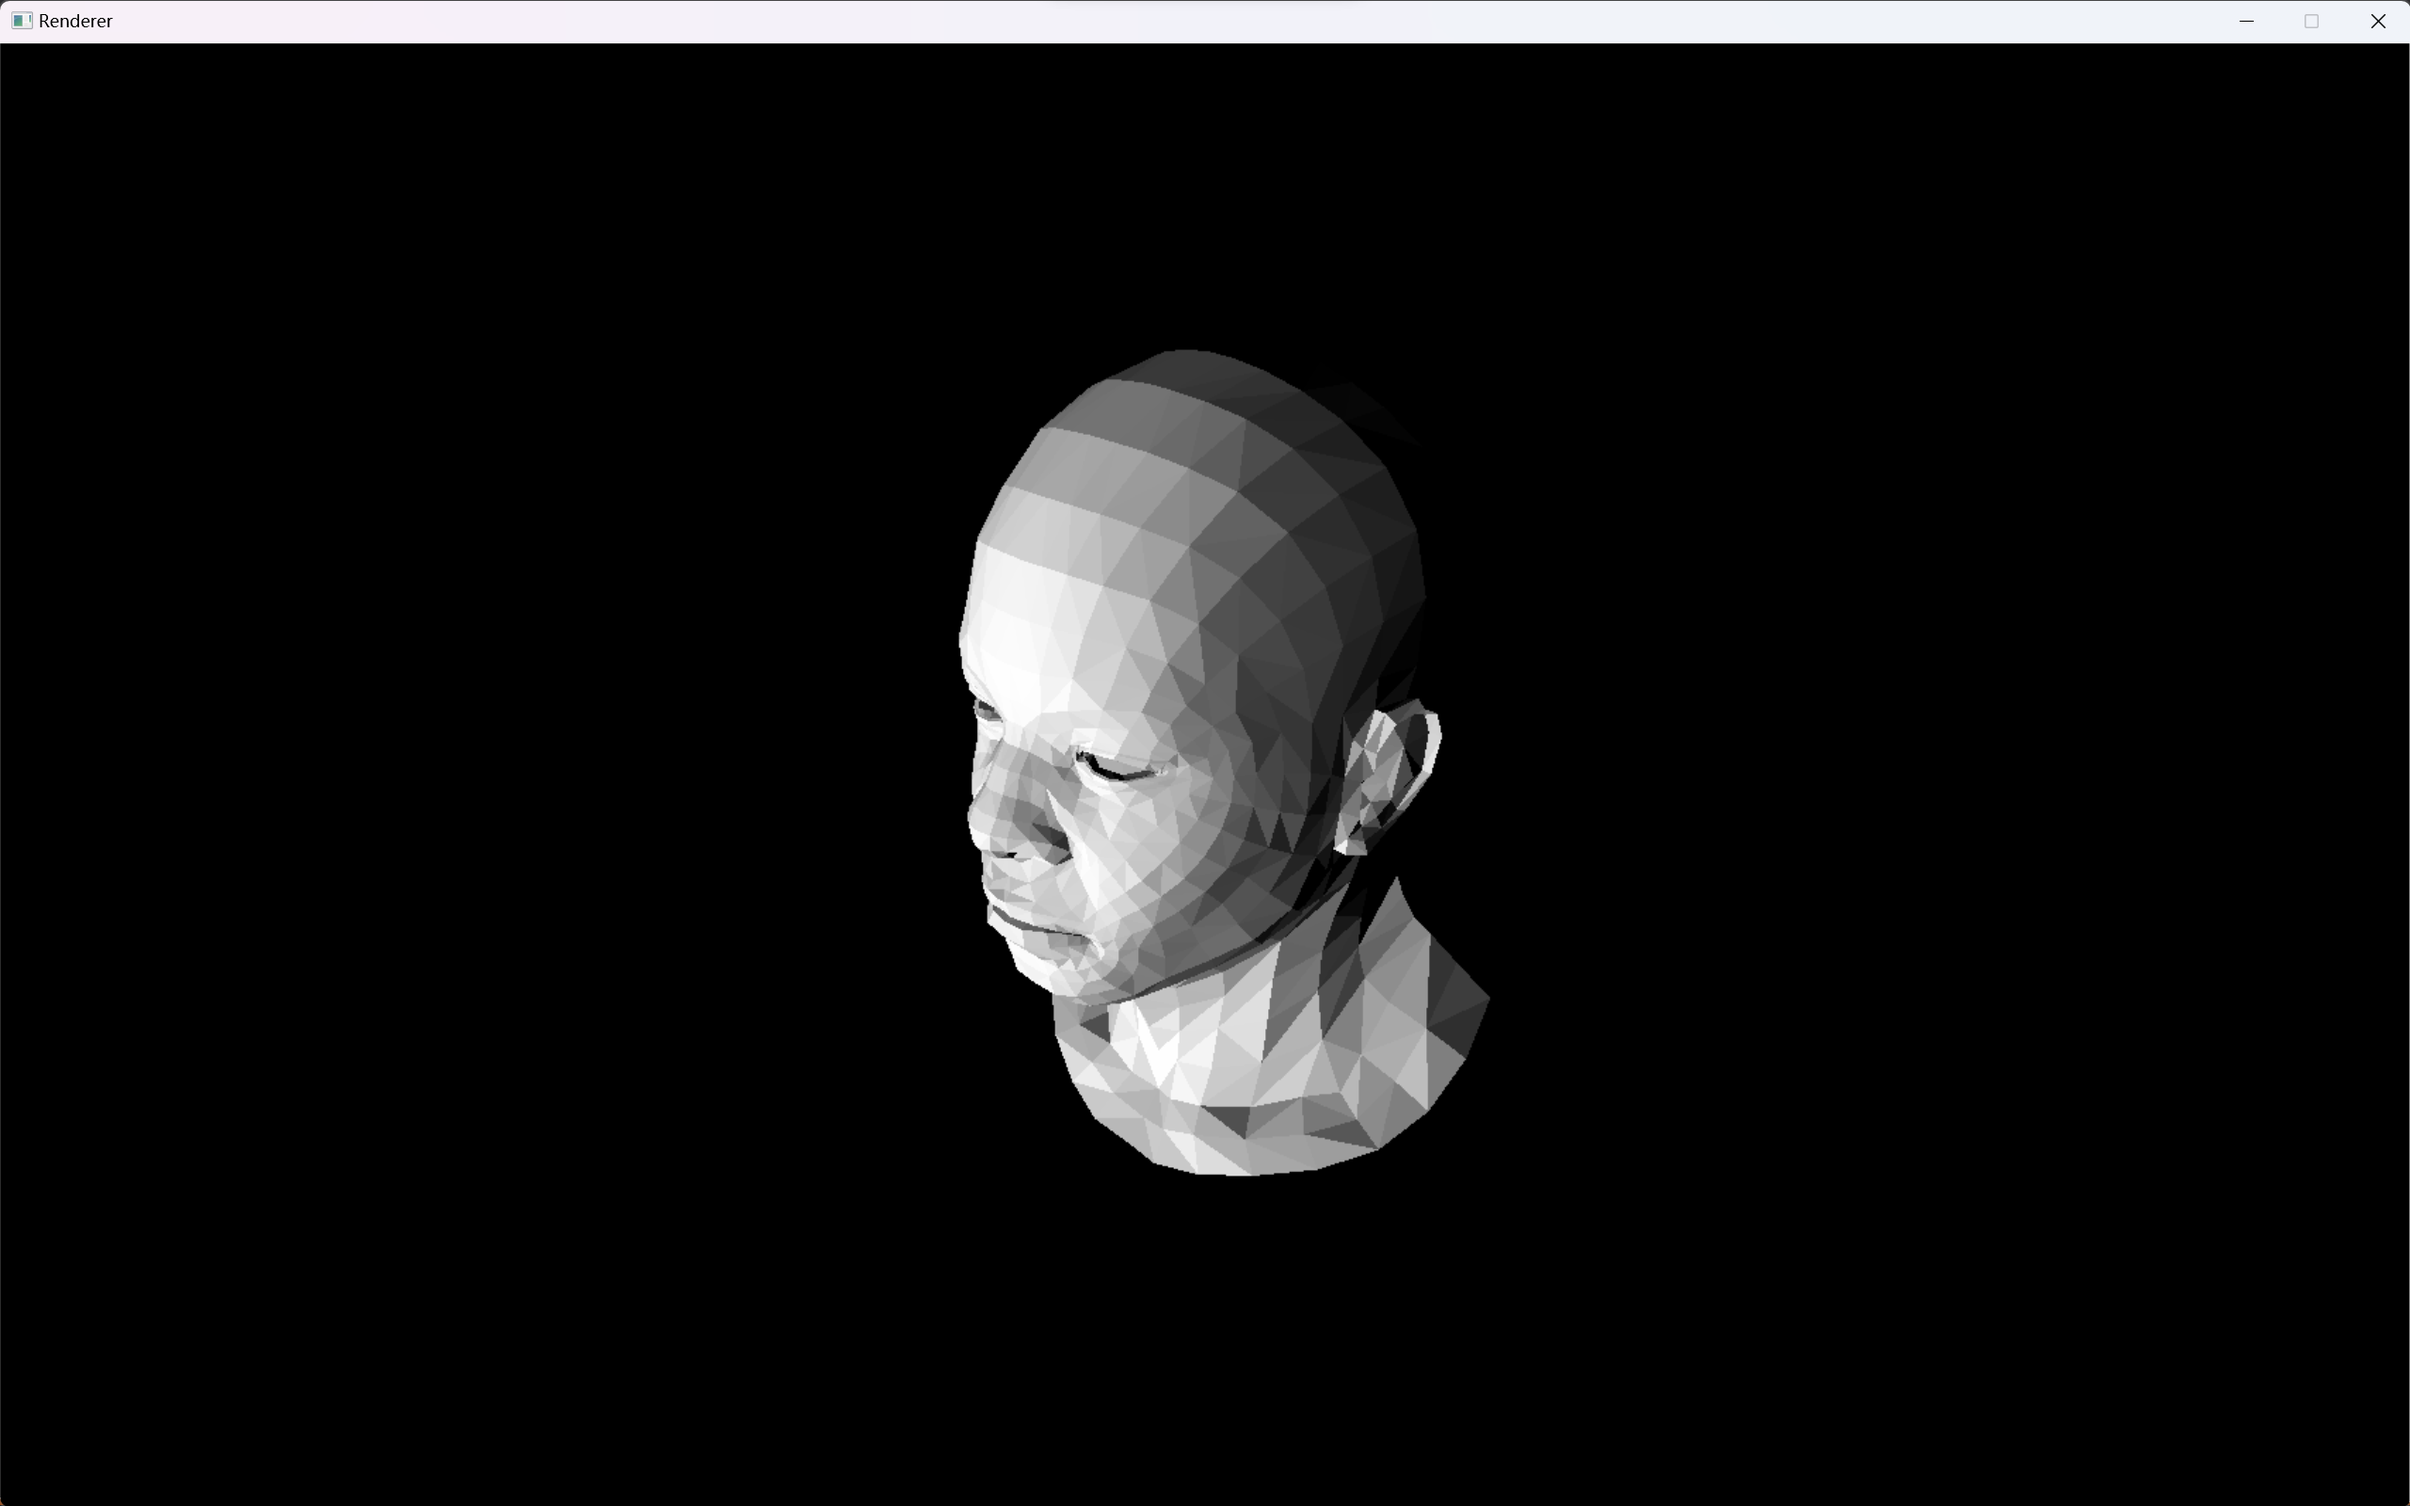
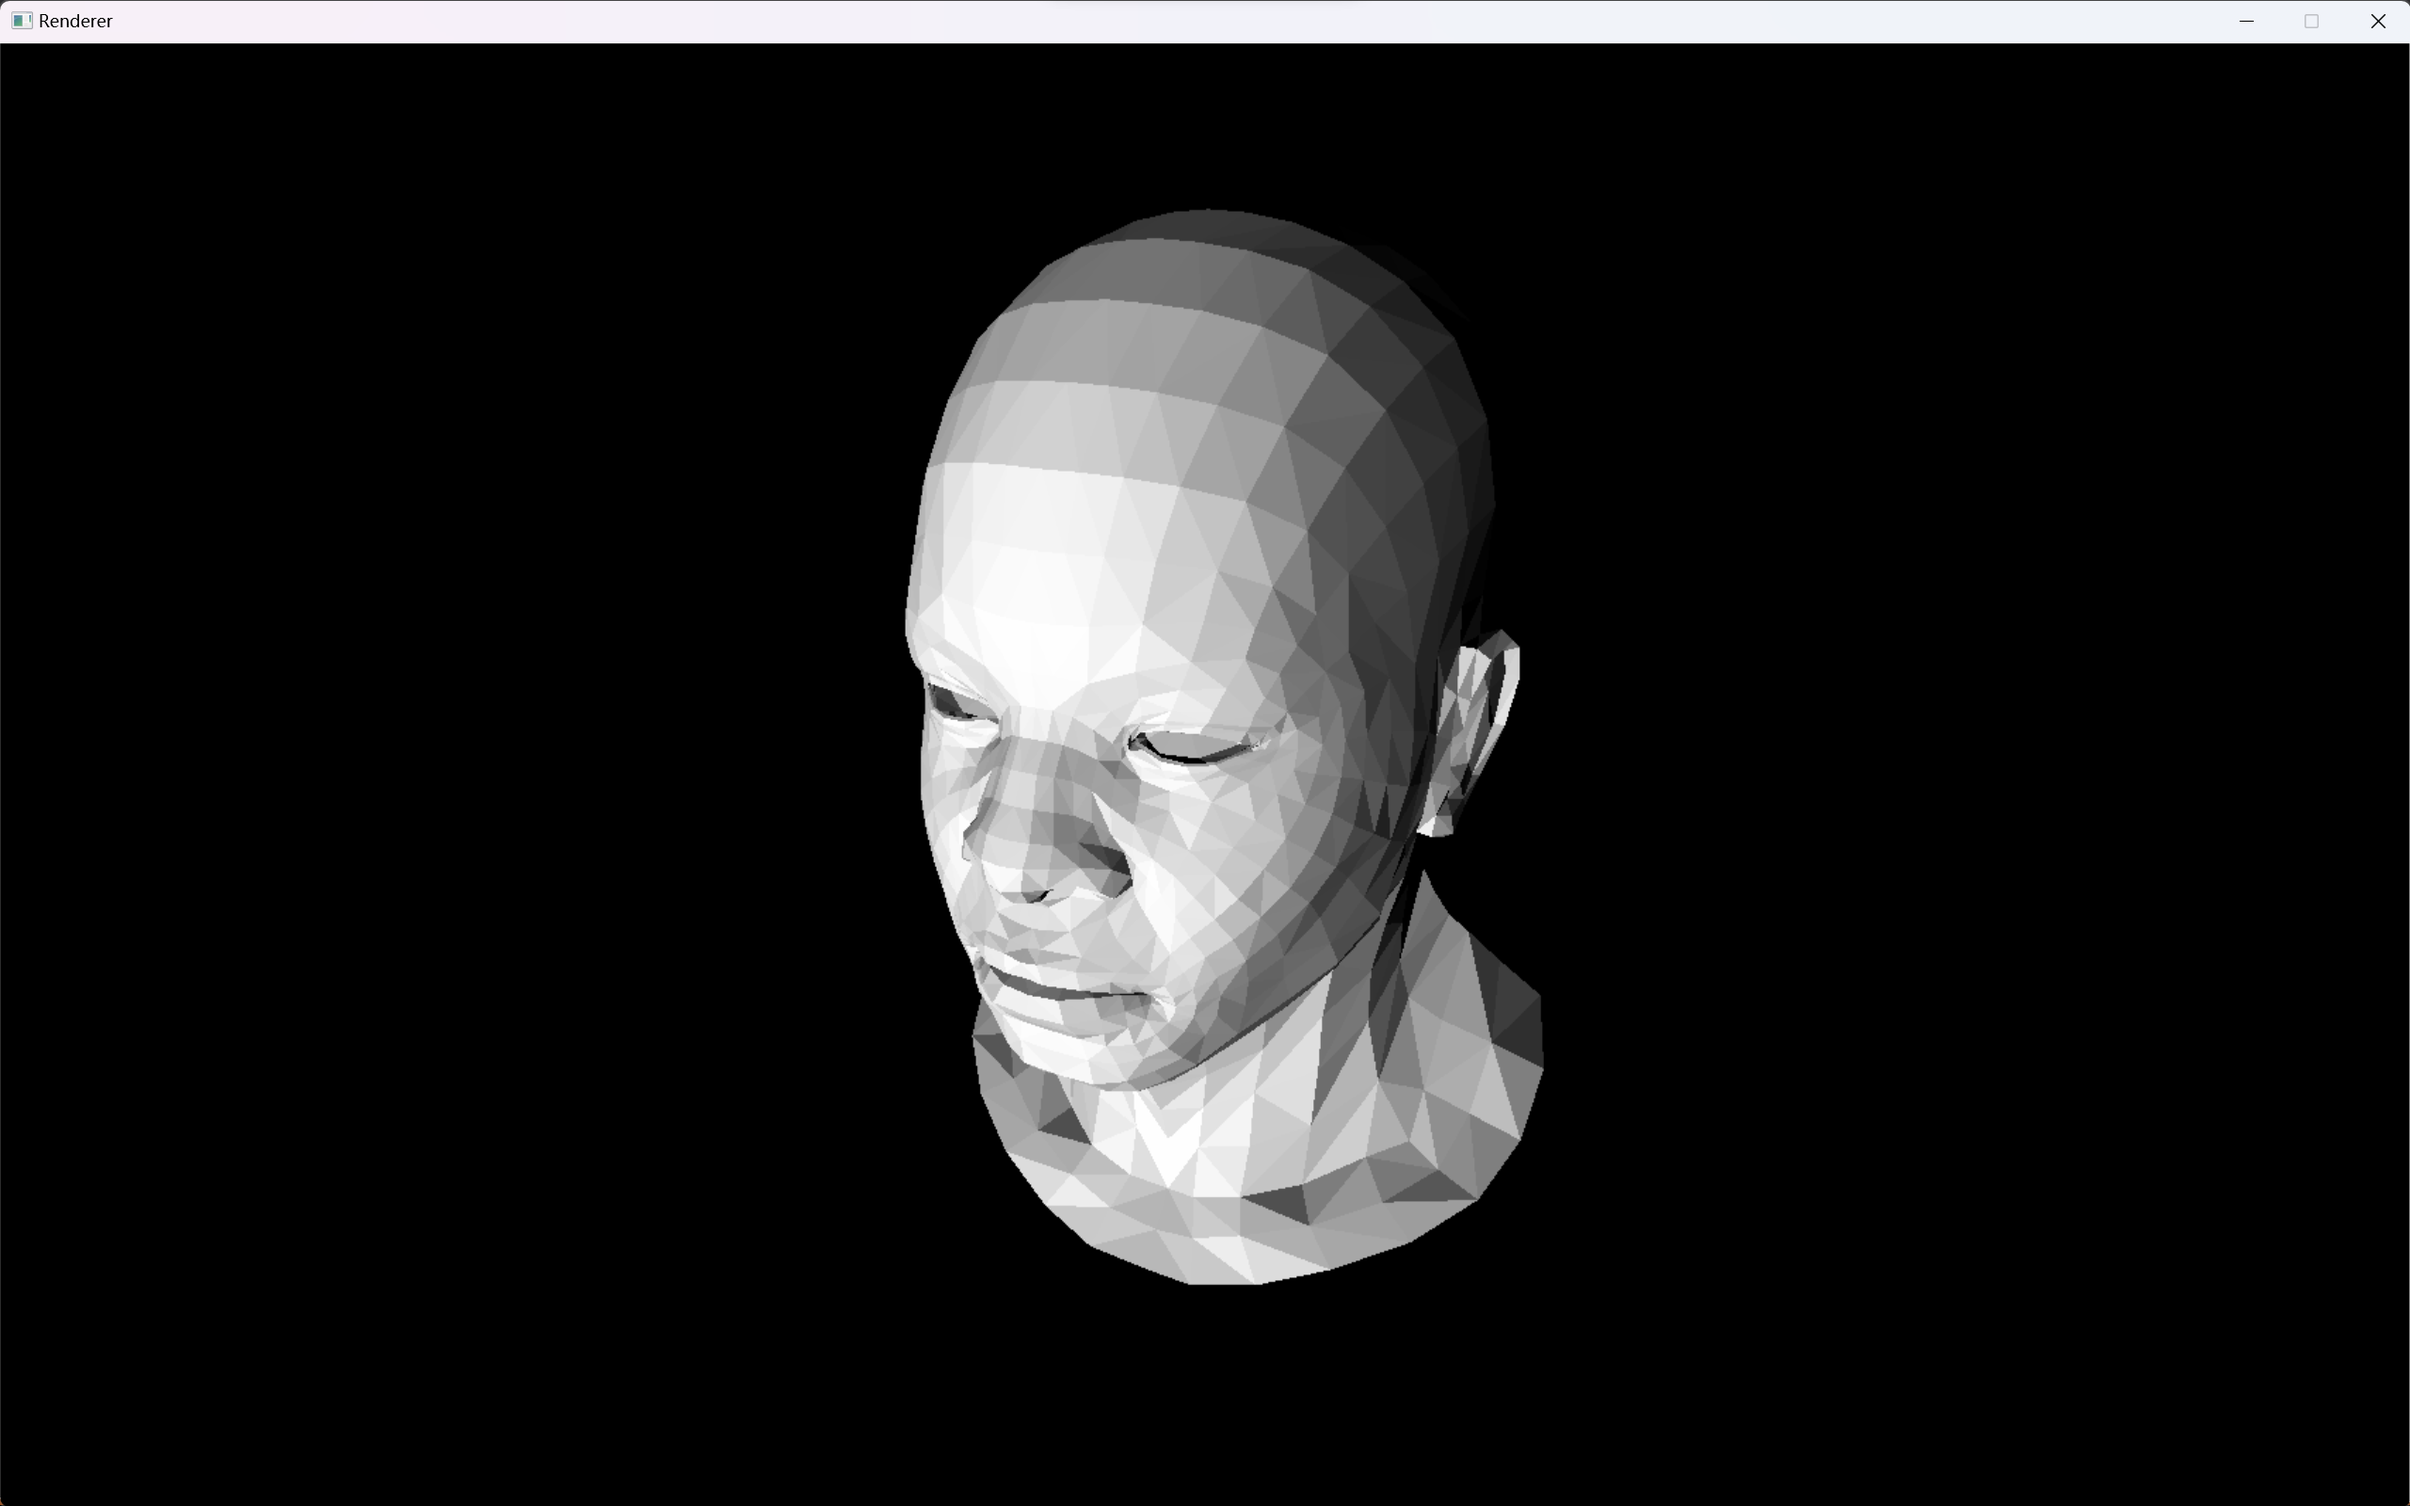
update readme and camera settings

Changed region(s): [[0.375, 0.125, 0.6562, 0.875]]

diff --git a/Texture/src/Application.cpp b/Texture/src/Application.cpp
@@ -40,7 +40,7 @@ void Application::run() {
 
 		renderer->setFramebuffer(static_cast<uint32_t*>(window->pixels), window->width, window->height);
 		renderer->clear();
-		renderer->render(vertices,indices,camera, modelMatrix,image);
+		renderer->render(vertices,indices,camera, modelMatrix,diffuse,normal);
 
 		if (!window->render()) {
 			break;
@@ -111,18 +111,31 @@ void Application::initScene() {
 
 				unsigned char* image_data = stbi_load(fullPath.c_str(), &width, &height, &bpp, 0);
 
-				image = new Image(width, height, bpp, image_data);
+				diffuse = new Image(width, height, bpp, image_data);
+			}
+		}
+
+		if (pMaterial->GetTextureCount(aiTextureType_NORMALS) > 0) {
+			if (pMaterial->GetTexture(aiTextureType_NORMALS, 0, &path, NULL, NULL, NULL, NULL, NULL) == AI_SUCCESS) {
+				std::string fullPath = MODEL_FOLDER_PATH + path.data;
+				int width = 0;
+				int height = 0;
+				int bpp = 0;
+
+				unsigned char* image_data = stbi_load(fullPath.c_str(), &width, &height, &bpp, 0);
+
+				normal = new Image(width, height, bpp, image_data);
 			}
 		}
 	}
 
 	// setup camera
-	const float fov = 45.f;
+	const float fov = glm::radians(60.f);
 	const float aspect = static_cast<float>(window->width) / window->height;
 	const float near = 0.1f;
 	const float far = 1000.f;
 	camera = new Camera();
-	camera->pos = glm::vec3(2.f, 1.5f, 2.f);
+	camera->pos = glm::vec3(1.f, 1.f, 2.f);
 	camera
 		->setView( glm::vec3(0.f, 0.f, 0.f))
 		->setProjection(fov, aspect, near, far)

diff --git a/Texture/src/Renderer.cpp b/Texture/src/Renderer.cpp
@@ -91,7 +91,8 @@ void Renderer::drawTriangle( glm::vec3& v1,  glm::vec3& v2,  glm::vec3& v3) {
 	}
 }
 
-void Renderer::render(const std::vector<Vertex>& vertices,const std::vector<uint32_t>& indices,const Camera* camera, const glm::mat4& modelMatrix, Image* diffuse) {
+void Renderer::render(const std::vector<Vertex>& vertices,const std::vector<uint32_t>& indices,const Camera* camera,
+	const glm::mat4& modelMatrix, Image* diffuse, Image* normal) {
 	glm::vec3 light = glm::normalize(glm::vec3(0,0,1.f));
 
 	// set shader uniforms
@@ -100,6 +101,7 @@ void Renderer::render(const std::vector<Vertex>& vertices,const std::vector<uint
 	shader->u_model = modelMatrix;
 	shader->u_light = light;
 	shader->u_diffuse = diffuse;
+	shader->u_normal = normal;
 
 	for (auto i = 0; i < indices.size(); i+=3) {
 		// clip space, vertex shader output
@@ -108,7 +110,6 @@ void Renderer::render(const std::vector<Vertex>& vertices,const std::vector<uint
 		for (int j = 0; j < size; ++j) {
 			p[j]= shader->vertex(
 				vertices[indices[static_cast<size_t>(i) + j]].position,
-				vertices[indices[static_cast<size_t>(i) + j]].normal,
 				vertices[indices[static_cast<size_t>(i) + j]].uv,
 				j
 			);

diff --git a/Texture/src/Shader.cpp b/Texture/src/Shader.cpp
@@ -1,16 +1,15 @@
 #include "Shader.h"
 
-glm::vec4 Shader::vertex(const glm::vec3& position,const glm::vec3& normal,const glm::vec2& uv,int index) {
-	v_normal[index] = normal;
+glm::vec4 Shader::vertex(const glm::vec3& position,const glm::vec2& uv,int index) {
 	v_uv[index] = uv;
 	return u_projection * u_view * u_model * glm::vec4(position, 1.f);
 }
 
 bool Shader::fragment(const glm::vec3& bar, glm::vec3& gl_fragment) {
-	glm::vec3 normal = bar.x * v_normal[0] + bar.y * v_normal[1] + bar.z * v_normal[2];
 	glm::vec2 uv = bar.x * v_uv[0] + bar.y * v_uv[1] + bar.z * v_uv[2];
 	
 	glm::vec3 color = u_diffuse->sample(uv);
+	glm::vec3 normal = u_normal->sample(uv);
 
 	gl_fragment = glm::clamp(glm::dot(normal,u_light),0.f,1.f) * color;
 	return false;

diff --git a/Camera/src/Application.cpp b/Camera/src/Application.cpp
@@ -95,12 +95,12 @@ void Application::initScene() {
 
 	}
 
-	const float fov = 45.f;
+	const float fov = glm::radians(60.f);
 	const float aspect = static_cast<float>(window->width) / window->height;
 	const float near = 0.1f;
 	const float far = 1000.f;
 	camera = new Camera();
-	camera->pos = glm::vec3(2.f, 1.5f, 2.f);
+	camera->pos = glm::vec3(1.f, 1.f, 2.f);
 	camera
 		->setView( glm::vec3(0.f, 0.f, 0.f))
 		->setProjection(fov, aspect, near, far)

diff --git a/GouradShading/src/Application.cpp b/GouradShading/src/Application.cpp
@@ -94,12 +94,12 @@ void Application::initScene() {
 
 	}
 
-	const float fov = 45.f;
+	const float fov = glm::radians(60.f);
 	const float aspect = static_cast<float>(window->width) / window->height;
 	const float near = 0.1f;
 	const float far = 1000.f;
 	camera = new Camera();
-	camera->pos = glm::vec3(2.f, 1.5f, 2.f);
+	camera->pos = glm::vec3(1.f, 1.f, 2.f);
 	camera
 		->setView( glm::vec3(0.f, 0.f, 0.f))
 		->setProjection(fov, aspect, near, far)

diff --git a/PhongShading/src/Application.cpp b/PhongShading/src/Application.cpp
@@ -94,12 +94,12 @@ void Application::initScene() {
 
 	}
 
-	const float fov = 45.f;
+	const float fov = glm::radians(60.f);
 	const float aspect = static_cast<float>(window->width) / window->height;
 	const float near = 0.1f;
 	const float far = 1000.f;
 	camera = new Camera();
-	camera->pos = glm::vec3(2.f, 1.5f, 2.f);
+	camera->pos = glm::vec3(1.f, 1.f, 2.f);
 	camera
 		->setView( glm::vec3(0.f, 0.f, 0.f))
 		->setProjection(fov, aspect, near, far)

diff --git a/Texture/src/Shader.h b/Texture/src/Shader.h
@@ -9,7 +9,6 @@ class Shader {
 public:
 	glm::vec4 vertex( // default output position for interplation
 		const glm::vec3& position,
-		const glm::vec3& normal,
 		const glm::vec2& uv,
 		int index
 	);
@@ -20,8 +19,8 @@ public:
 	glm::mat4 u_model;
 	glm::vec3 u_light;
 	Image* u_diffuse;
+	Image* u_normal;
 
 	glm::vec4 gl_position;
-	glm::vec3 v_normal[3];
 	glm::vec2 v_uv[3];
 };

diff --git a/Texture/src/Renderer.h b/Texture/src/Renderer.h
@@ -20,7 +20,9 @@ public:
 		const std::vector<uint32_t>& indices, 
 		const Camera* camera,
 		const glm::mat4& modelMatrix,
-		Image* diffuse);
+		Image* diffuse,
+		Image* normal
+		);
 
 private:
 	void setPixel(int x, int y, const glm::vec4& color);

diff --git a/Texture/src/Application.h b/Texture/src/Application.h
@@ -23,7 +23,8 @@ private:
 	Window* window;
 	Renderer* renderer;
 	Camera* camera;
-	Image* image;
+	Image* diffuse;
+	Image* normal;
 
 	std::vector<Vertex> vertices;
 	std::vector<uint32_t> indices;

diff --git a/README.md b/README.md
@@ -22,4 +22,4 @@ This project is licensed under [![License: MIT](https://img.shields.io/badge/Lic
 ## Contact
 * Email:[eric199002@icloud.com](eric199002@icloud.com)
 * Twitter:[https://twitter.com/nikoniko600](https://twitter.com/nikoniko600)
-* Repo:[https://github.com/Eric-Schecter/img2ppt](https://github.com/Eric-Schecter/img2ppt)
+* Repo:[https://github.com/Eric-Schecter/Soft-Renderer](https://github.com/Eric-Schecter/Soft-Renderer)
